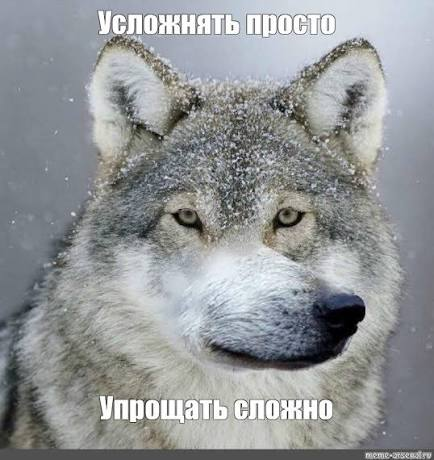
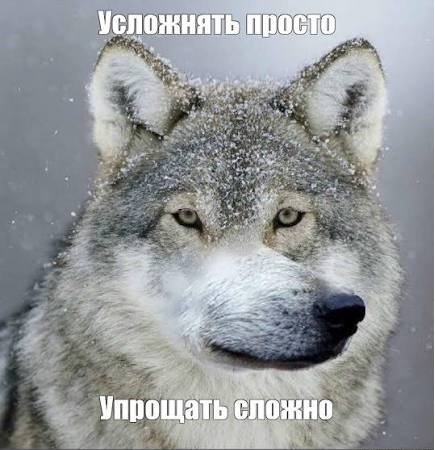
refactor: change records slide

diff --git a/slides.md b/slides.md
@@ -249,8 +249,8 @@ class: records-slide
 <div>
 
 * **Попытка решить проблему сравнения объектов.** Синтаксис `#{ a: 1 }` и `#[1, 2]` должен был сравниваться по значениям внутри, а не по ссылке в памяти.
-* **Проект закрыли в апреле 2025 года.** После 6 лет работы отозвали со Stage 2 и отправили в архив.
 * **Не сошлись производительность и смысл `===`.** Глубокое сравнение через обычное `===` перегружало бы браузеры. Менять смысл главного оператора языка комитет счёл слишком опасным.
+* **Проект закрыли, но задачу оставили.** В апреле 2025 фичу отозвали со Stage 2. Сравнение по значению продолжили в фиче Composites, которая сейчас находится на Stage 1. `Composite({ x: 1, y: 2 })` запоминает поля, повторный вызов возвращает тот же объект, и обычное `===` срабатывает.
 
 </div>
 <div class="temporal-photo">

diff --git a/links.md b/links.md
@@ -31,8 +31,9 @@
 
 ## Records & Tuples
 
-- [proposal-record-tuple](https://github.com/tc39/proposal-record-tuple) — отозван в апреле 2025
+- [proposal-record-tuple](https://github.com/tc39/proposal-record-tuple) — в апреле 2025 отозван со Stage 2: withdrawn; subsumed by Composites
 - [Issue об отзыве](https://github.com/tc39/proposal-record-tuple/issues/394)
+- [proposal-composites](https://github.com/tc39/proposal-composites) — Stage 1, та же задача другим подходом
 
 ## Stage 3
 
